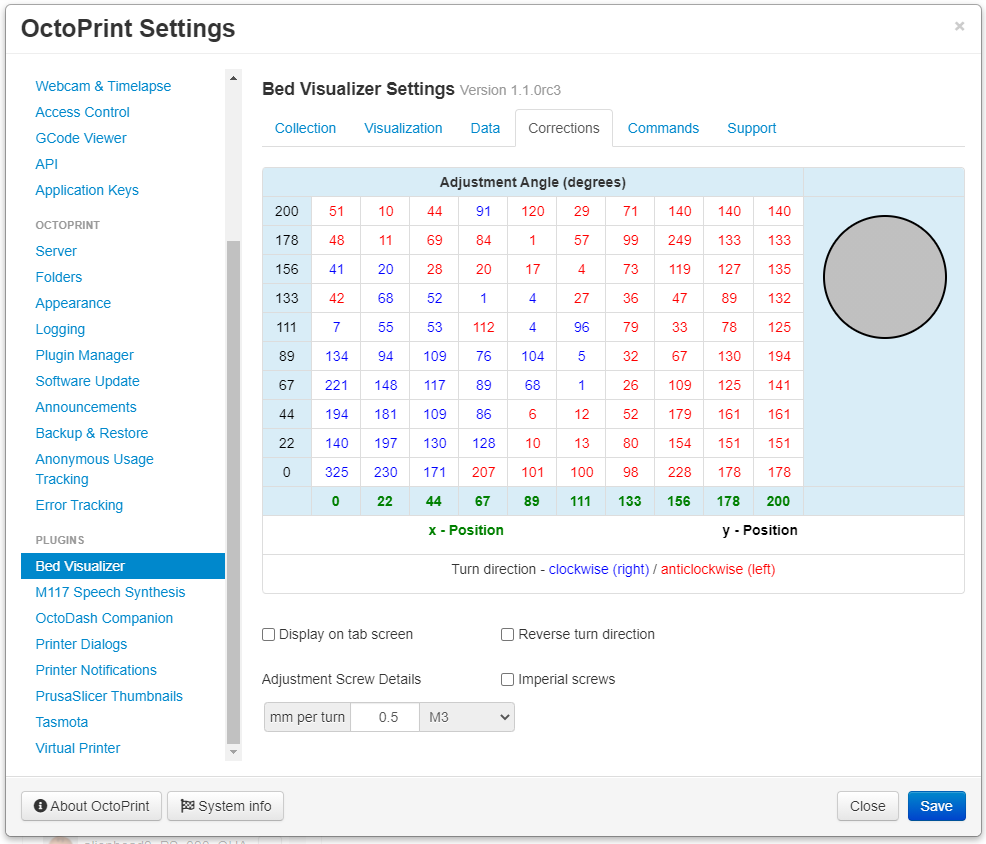
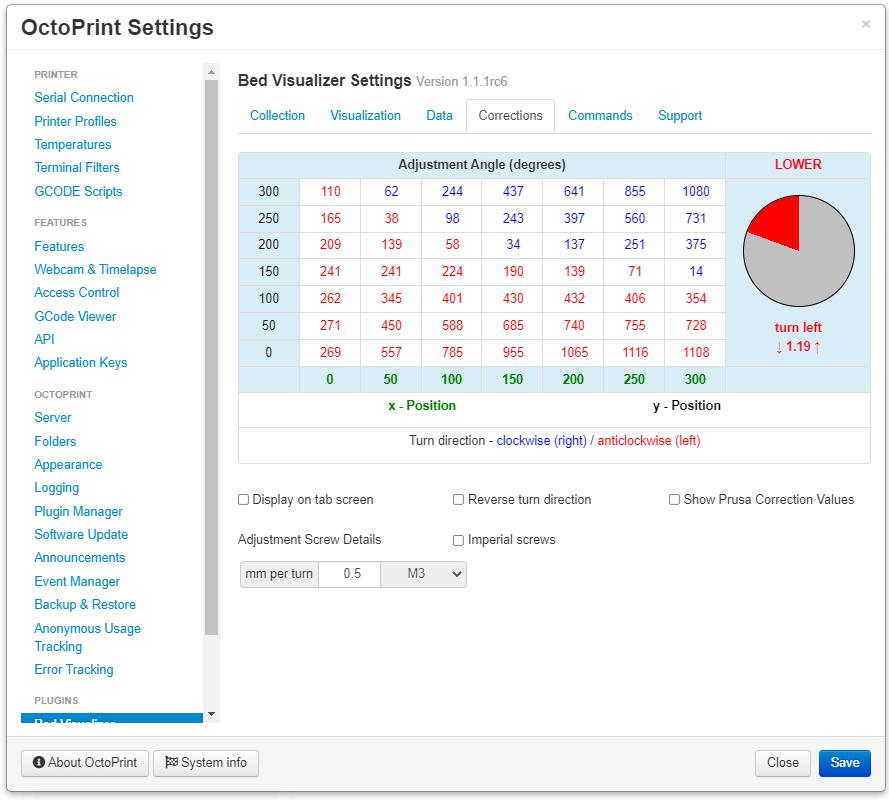
update docs and screenshots, #335, #358, #468 fix bug in table mouse over events

diff --git a/wiki/index.md b/wiki/index.md
@@ -8,6 +8,7 @@ Sometimes after installing depending on how many other plugin tabs you have, the
 
 * **Graph:** This is where you will find the rendered graph generated using mesh [Collection](#Collection) data and configured [Visualization](#Visualization) options. The graph will be replaced by the webcam during the mesh collection process if the show webcam option is enabled in settings.
 * **Corrections:** (not enabled in screenshot above) This is where you will see the adjustment correction table as described in [Corrections](#Corrections).
+* **Data:** (not enabled in screenshot above) This is where you will see reported z offsets reported by firmware as described in [Data](#Data).
 * **Settings Button:** Click this button to go directly to the Bed Visualizer [Settings](#Settings).
 * **Commands:** This is where custom defined [Commands](#Commands) will be displayed.
 
@@ -22,7 +23,8 @@ On this tab you will find all the settings related to collecting mesh data from 
 
 * **GCODE Commands for Mesh Update Process:** For a collection of example GCODE commands see [here](gcode-examples.md). These examples are not exact requirements, but guidance on what are some of the more common commands based on firmware/leveling type combinations.
 * **Save Mesh:** Enabling this option will cache the last collected mesh data in order to visualize without the need for probing. If you disable this option, the GCODE commands above will be run every time you switch to the Bed Visualizer tab. This can be convenient for firmware that allows for storing mesh data, ie UBL, and using the command `M420 V` for the GCODE commands. This option does not store your mesh data to EEPROM of your firmware, if you'd like to do that it's recommended to include `M500` in your collection command described above or as a custom [Command](#Commands).
-* **Flip X-Axis:** If enabled the mesh data returned by your firmware will be reversed in the x direction.
+* **Flip X-Axis:** If enabled the mesh data returned by your firmware will be reversed in the x direction (see Tips below).
+* **Flip Y-Axis:** If enabled the mesh data returned by your firmware will be reversed in the y direction (see Tips below).
 
 ---
 
@@ -44,6 +46,7 @@ On this tab you will find a simple table display of the reported mesh data from 
 
 ![screenshot](settings_tab_data.png)
 
+* **Display on tab screen:** When enabled the z offset table shown above will be displayed below the rendered mesh graph on the Bed Visualizer tab.
 * **Descending y-axis:** When enabled 0 will be on the bottom, and the highest y value will be at the top of the table.
 * **Descending x-axis:** When enabled 0 will be on the far left, and the highest x value will be at the far right of the table.
 
@@ -52,10 +55,13 @@ On this tab you will find a simple table display of the reported mesh data from 
 ## Corrections
 On this tab you will find settings specific to screw adjustment corrections.
 
+Hovering your mouse over cells will show direction and amount of turn needed on right side of table to achieve 0. Clicking on a cell will set that cell to 0 and all other numbers will be adjusted relative to that point in the table.
+
 ![screenshot](settings_tab_corrections.png)
 
 * **Display on tab screen:** When enabled the adjustment table shown above will be displayed below the rendered mesh graph on the Bed Visualizer tab.
 * **Reverse turn direction:** When enabled the direction for turning the screw will be reversed.
+* **Show Prusa Correction Values:** When enabled the graph will include back, front, left, right um values to enter into the printer's LCD, it's recommended to use relative Z offset in [Collection](#Collection) settings.
 * **Imperial screws:** Enable this options to use Imperials screw definitions instead of metric.
 * **Adjustment screw details:** This is the value equivalent to number of turns
 ---
@@ -102,5 +108,40 @@ On this tab you'll find information relevant to getting support.
   - If your leveling method requires homing first make sure to enter that as well in the GCODE Commands setting.
   - If you have Marlin's Auto Temperature Reporting feature enabled you will want to have M155 S30 and M155 S3 surrounding your reporting GCODE command, otherwise the collected data will be tainted with temperature information.
   - If you end up requiring multiple commands it is recommended to enter `@BEDLEVELVISUALIZER` just prior to the reporting command.
+  - To figure out the correct Flip X/Y Axis options on the collections tab it's easiest to place something in a corner to trigger the probe earlier and run an update mesh process. Compare the graph to where you placed the object and adjust the flip options accordingly and run the update mesh process again.
 
+# Theme Support
+
+---
+I've done my best in making the Bed Visualizer support themes. In some circumstances you may want to adjust the correction and data table colors for your specific theme for better readability. The following are the default classes used in the plugin for these tables.
+
+```
+.table thead tr.info > th, .table tbody tr td.info, .table tfoot tr.info > th {
+    background-color: #d9edf7;
+}
+
+.table thead tr.info .raise, .table tbody tr .raise, .table tfoot tr.info .raise, .table tfoot tr td div span.raise {
+    color: blue;
+}
+
+.table thead tr.info .lower, .table tbody tr .lower, .table tfoot tr.info .lower, .table tfoot tr td div span.lower {
+    color: red;
+}
+
+div.raise > div.turn_circle {
+    background-color: blue;
+}
+
+div.lower > div.turn_circle {
+    background-color: red;
+}
+
+.table thead tr.info .x-axis-label, .table tbody tr .x-axis-label, .table tfoot tr.info .x-axis-label, .table tfoot tr .y-axis-label {
+    color: black;
+}
+
+.table thead tr.info .y-axis-label, .table tbody tr .y-axis-label, .table tfoot tr.info .y-axis-label, .table tfoot tr .x-axis-label {
+    color: green;
+}
+```
 
